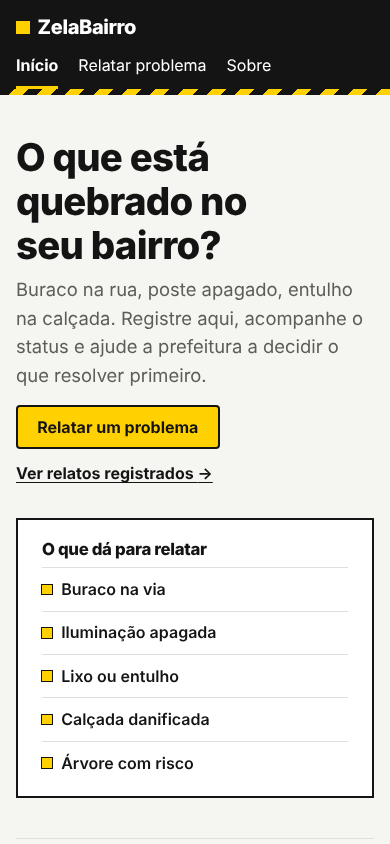
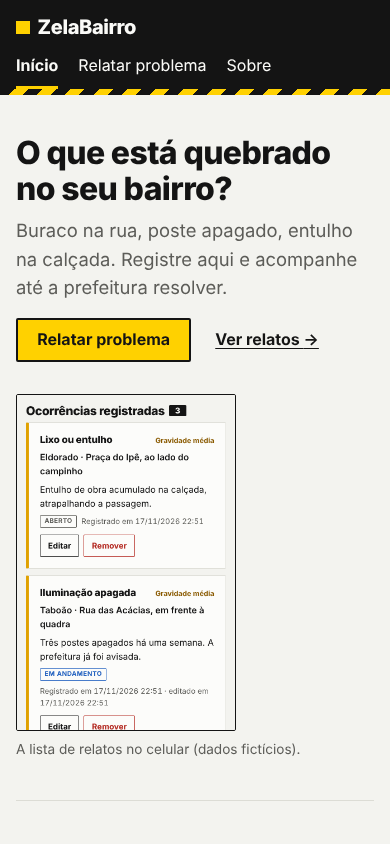
README e prints atualizados com o visual final

Changed region(s): [[0.0308, 0.154, 0.9846, 0.955], [0.5846, 0.5853, 0.6154, 0.6161]]

diff --git a/README.md b/README.md
@@ -32,7 +32,7 @@ Juntar em um só lugar os relatos de problemas de rua, organizados por tipo, bai
 - HTML5 semântico
 - CSS3 em arquivo externo: Flexbox, Grid e media queries
 - JavaScript puro, em 3 arquivos separados por responsabilidade
-- [Bootstrap 5.3.3](https://getbootstrap.com/) via CDN, só na seção "Como funciona" da página inicial (grid e cards)
+- [Bootstrap 5.3.3](https://getbootstrap.com/) via CDN, só na seção "Como funciona" da página inicial (grid)
 - Git e GitHub
 
 ## Como executar
@@ -44,7 +44,7 @@ Juntar em um só lugar os relatos de problemas de rua, organizados por tipo, bai
 2. Abra a pasta `zelabairro` no VS Code.
 3. Clique com o botão direito em `index.html` e escolha **Open with Live Server** (extensão Live Server).
 
-Também funciona abrindo o `index.html` direto no navegador. O Bootstrap vem da internet: sem conexão, só a seção "Como funciona" perde o estilo dos cards.
+Também funciona abrindo o `index.html` direto no navegador. O Bootstrap vem da internet: sem conexão, só a seção "Como funciona" perde o alinhamento em colunas.
 
 ## Estrutura de pastas
 
@@ -60,7 +60,8 @@ zelabairro/
 │   ├── registro.js     # Painel de registro de atividades
 │   └── app.js          # localStorage, adicionar/listar/editar/remover, DOM e eventos
 ├── img/
-│   └── favicon.svg     # Ícone da aba
+│   ├── favicon.svg     # Ícone da aba
+│   └── relatos-celular.png  # Print real da lista, usado na página inicial
 └── docs/
     └── prints/         # Capturas de tela usadas neste README
 ```
